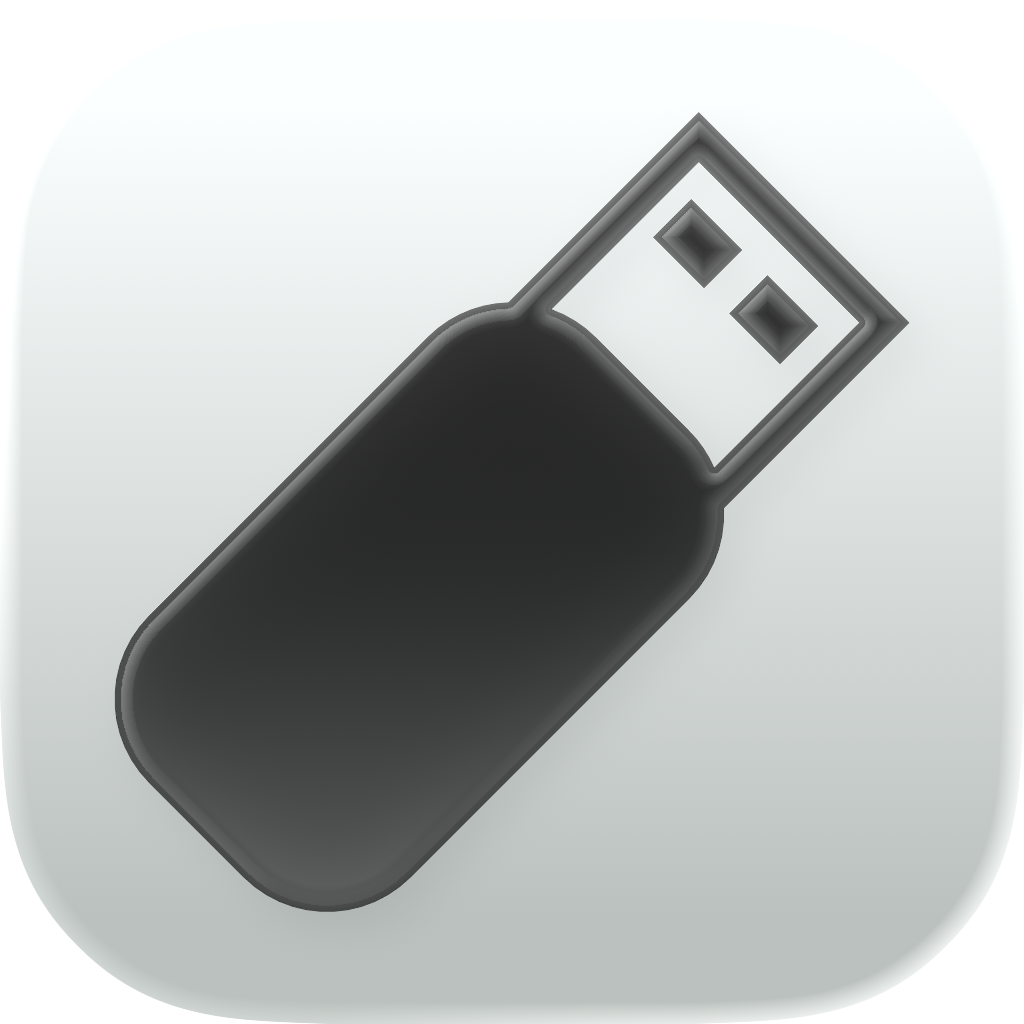
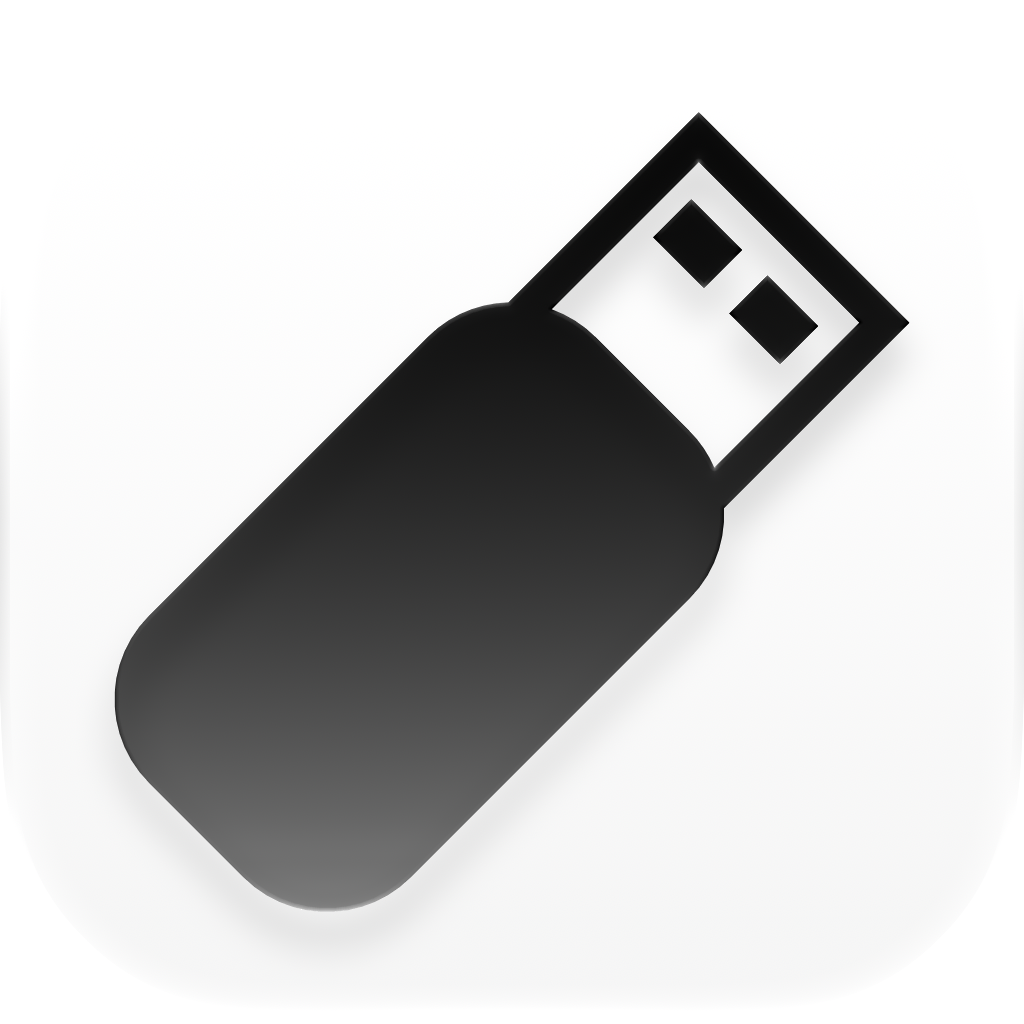
Update README application branding
Replace the README icon asset and refine inline spacing and alignment for the application title.

diff --git a/README.md b/README.md
@@ -1,4 +1,4 @@
-# <img src="docs/readme-assets/images/macUSBicon.png" alt="macUSB" width="64" height="64" style="vertical-align: middle;"> macUSB
+# <img src="docs/readme-assets/images/macUSBicon.png" alt="macUSB" width="64" height="64" style="vertical-align: middle;">&nbsp;&nbsp;macUSB
 
 ### The all-in-one bootable USB creator for Mac
 
